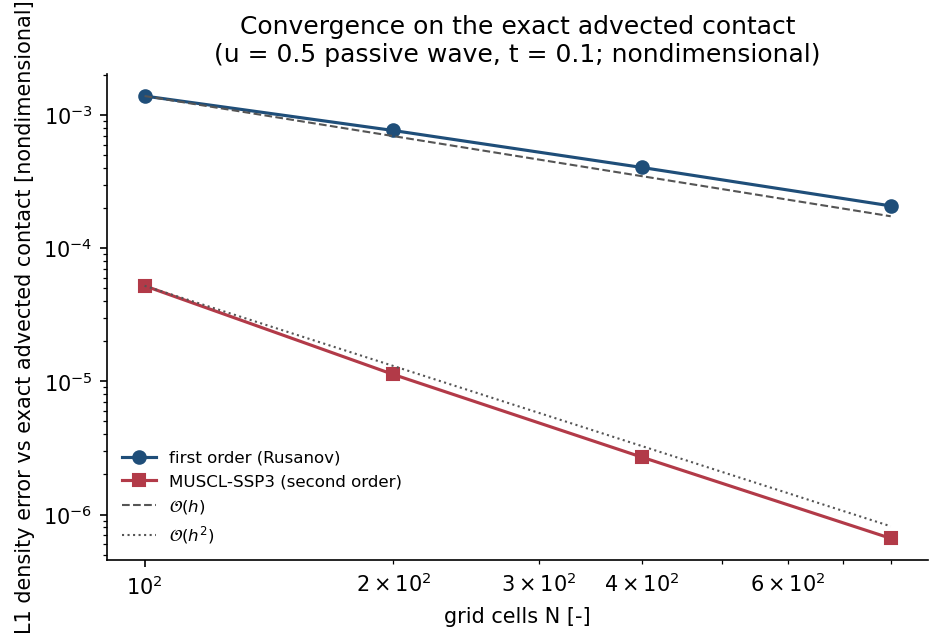
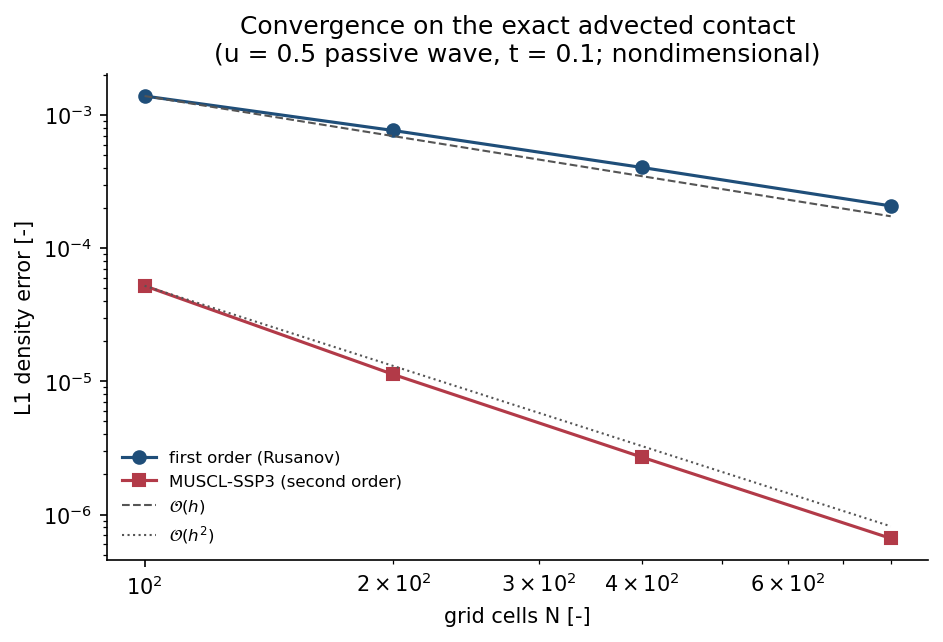
Keep the convergence figure label readable without clipping

Changed region(s): [[0.0, 0.0, 0.0308, 0.7165], [0.0, 0.8411, 0.0308, 0.9657], [0.0, 0.7477, 0.0308, 0.81]]

diff --git a/examples/run_verification.py b/examples/run_verification.py
@@ -5,7 +5,7 @@ Runs from the repository root:
     python examples/run_verification.py
 
 Outputs under ``docs/results/``:
-- ``sod_comparison.png/.svg``       cover: Sod tube at t = 0.2 s vs exact
+- ``sod_comparison.png/.svg``       cover: Sod tube at t = 0.2 vs exact
 - ``sod_evolution.gif``             animated density profiles vs exact
 - ``contact_convergence.png/.svg``  error vs grid for both schemes
 - ``sod_history.csv``, ``contact_convergence.csv``, ``run_summary.json``
@@ -186,7 +186,7 @@ def make_convergence_figure(errors):
     ax.loglog(ns, errors[1][0] * (ns / ns[0]) ** -1.0, "--", color=GRAY, lw=1.0, label=r"$\mathcal{O}(h)$")
     ax.loglog(ns, errors[2][0] * (ns / ns[0]) ** -2.0, ":", color=GRAY, lw=1.0, label=r"$\mathcal{O}(h^2)$")
     ax.set_xlabel("grid cells N [-]")
-    ax.set_ylabel("L1 density error vs exact advected contact [nondimensional]")
+    ax.set_ylabel("L1 density error [-]")
     ax.set_title("Convergence on the exact advected contact\n(u = 0.5 passive wave, t = 0.1; nondimensional)")
     ax.legend(frameon=False, fontsize=8)
     fig.tight_layout()
